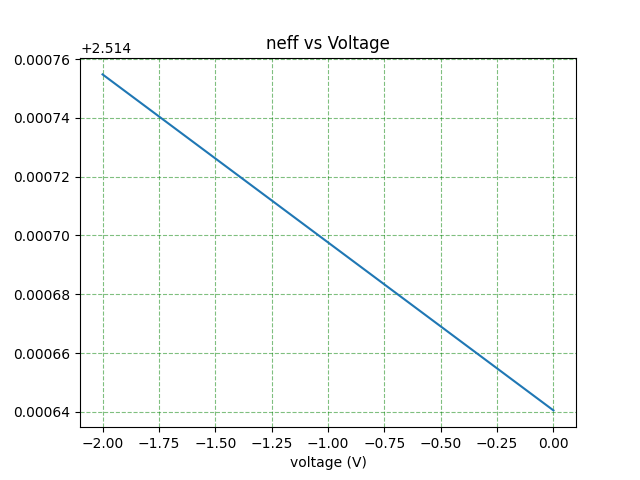
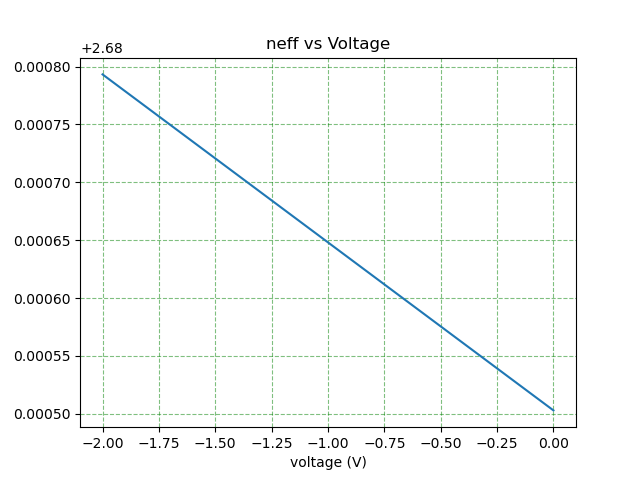
add feedback ring

diff --git a/eye_test_design.py b/eye_test_design.py
@@ -11,6 +11,8 @@ from Heater import Heater
 
 
 # Refer：Ring modulator in IMEC PDK，以PDK 3.6.1為例
+# 此模擬檔案為自行設計ring modulator，以PDK 3.6.1的ring modulator為參考
+# ring內的round trip loss、調變效率訂為跟PDK 3.6.1的ring modulator相同，然後調整ring radius和couple coefficient，為了有更高Q和更深deep
 # //////////////////////////////////////////////////////////////////////////////////////////////////////////////
 # //////////////////////////////////////////////////////////////////////////////////////////////////////////////
 mode = "scan_frequency"
@@ -19,63 +21,30 @@ delta_f = 8 # GHz
 wl_in = 1.559453431986187
 # wl_in = 1.5593-0.0008/100*delta_f
 Pin = 1.0 #mW
-FSR = 0.0195 # um
-radius = 5 #um
+ng = 3.9697242191825954
+radius = 7.5 #um
 cavity_length = 2*np.pi*radius 
-La_Lc_ratio = 1
+La_Lc_ratio = 2*np.pi*5/(2*np.pi*radius)
 mode_area = 0.22*0.5
-lambda_res =  1.559
-# Q = 3310
-Q = 2660
+lambda_res =  1.559453431986187
 me = 38 # pm/V
 
-# //////////////////////////////////////////////////////////////////////////////////////////////////////////////
-# //////////////////////////////////////////////////////////////////////////////////////////////////////////////
-# Calculate group index
-ng = lambda_res**2/(FSR*cavity_length)
-
-# //////////////////////////////////////////////////////////////////////////////////////////////////////////////
-# //////////////////////////////////////////////////////////////////////////////////////////////////////////////
-# Calculate total loss (intrinsic loss + coupling loss)
-w_res = 2*np.pi*c/(lambda_res) # THz
-print("G_energy + alpha_energy = ",( w_res*ng/(c*1e-4))/Q," 1/cm") 
-
-# //////////////////////////////////////////////////////////////////////////////////////////////////////////////
-# Define the energy absorption coefficient (varing with voltage)
-G_plus_alpha = ( w_res*ng/(c*1e-4))/Q
-ratio = 1-181/(192*2)
-alpha_energy0 =  G_plus_alpha*(1-ratio) #1/cm
-G_energy = G_plus_alpha*ratio #1/cm
-
-def func(V,alpha0,b,c):
-    return b*V/(abs(V)+c)**0.5+alpha0
-V = np.array([0,-0.5,-1,-1.5,-2])
-# alpha_energy_data = func(V,alpha_energy0,2,0.1)
-# d = 1.3
-# alpha_energy_data = V*d + alpha_energy0
-# Amp_RoundTripLoss_data = np.exp(-alpha_energy_data/2*2*np.pi*radius*1e-4)
-
 Amp_RoundTripLoss_data = np.array([0.95223,0.95248,0.95273,0.95292,0.95305])
-# Amp_RoundTripLoss_data = np.array([0.95188,0.95212,0.95246,0.95245,0.95266])
-a_fit = alpha_fit(RoundTripLoss=Amp_RoundTripLoss_data,La=cavity_length,L = cavity_length,input2 = "amp")
+a_fit = alpha_fit(RoundTripLoss=Amp_RoundTripLoss_data,La=cavity_length*La_Lc_ratio,L = cavity_length,input2 = "amp")
 
 # //////////////////////////////////////////////////////////////////////////////////////////////////////////////
 # //////////////////////////////////////////////////////////////////////////////////////////////////////////////
 # Define the coupling coefficient
 gamma = 0.95105
-# gamma = np.exp(-G_energy/2*2*np.pi*radius*1e-4) 
-
 
 # //////////////////////////////////////////////////////////////////////////////////////////////////////////////
 # //////////////////////////////////////////////////////////////////////////////////////////////////////////////
 # Define the index (varing with voltage)
+w_res = 2*np.pi*c/lambda_res
 D_bar = -2*np.pi*c/lambda_res**2
-print("ng = ",ng)
 print("delta neff/delta V = ",me*1e-6*D_bar*( -ng/(w_res) )*(1/La_Lc_ratio))
 neff0 = 2.680503
 dneff_dV = me*1e-6*D_bar*( -ng/(w_res) )*(1/La_Lc_ratio)
-# neff_calculated = [2.51105,neff0, 2.51113, 2.51116, 2.51118, 2.5112]
-# neff_calculated = [2.51461,2.51464, 2.51467, 2.5147, 2.51473, 2.51475]
 neff_calculated = [neff0+dneff_dV*(-0.5),neff0, neff0+dneff_dV*0.5, neff0+dneff_dV*1, neff0+dneff_dV*1.5, neff0+dneff_dV*2]
 
 n_fit = neff_fit(neff_data=neff_calculated)
@@ -119,7 +88,7 @@ ring_mod = ring(L=cavity_length,
             cross_section=mode_area,
             lambda_incident=wl_in,
             gamma=[gamma],
-            FSR = FSR,
+            ng=ng,
             FSR_shift=0,
             FCA_fit_factor=0,
             TPA_fit_factor=0,
@@ -139,9 +108,6 @@ H = Heater(300,0,0.5*150/0.6)
 # Define the wavelength range for the scan
 # The range is set based on the resonant wavelength and the heater power
 # The values can be adjusted based on the specific device characteristics
-
-# wl_min =  1.5525
-# wl_max = 1.5527
 wl_min =  ring_mod.lambda0+ring_mod.HE*H.P*1e-6 - ring_mod.lambda0/ring_mod.Q
 wl_max =  ring_mod.lambda0+ring_mod.HE*H.P*1e-6 + ring_mod.lambda0/ring_mod.Q
 
@@ -175,7 +141,7 @@ plt.show()
 ploting(V,1e6*c*1e-12/sim.f_pround_bar/ring_mod.ng*( ring_mod.neff(V) - ring_mod.neff(0))*(ring_mod.L_active[0]/ring_mod.L),\
             x_label="voltage (V)",title="resonant wavelength vs Voltage (pm/V)",filename="lambda_V")
 
-os.chdir("./eye_diagram_test/")
+os.chdir("./eye_test_design/")
 t = time(mode = sim.mode)
 
 if sim.mode == "scan_frequency":

diff --git a/bend_FDTD.py b/bend_FDTD.py
@@ -1,0 +1,131 @@
+import numpy as np
+import importlib
+import argparse
+
+lumapi = importlib.machinery.SourceFileLoader('Lumapi','/opt/lumerical/v212/api/python/lumapi.py').load_module()
+
+fdtd = lumapi.FDTD(hide=True)
+
+def main(radius):
+    scale = 1e-6
+    WG_height = 0.2114
+    wg_width = 0.5
+    pad = 2
+    Si = 'Si (Silicon) - Palik'
+    SiO2 = 'SiO2 (Glass) - Palik'
+    SKT_height  = 0.0622
+    L = 5
+    res = 4
+
+    fdtd.setglobalsource("wavelength start",1.5e-6)
+    fdtd.setglobalsource("wavelength start",1.6e-6)
+
+    fdtd_x_span = (radius+wg_width+6)*scale
+    fdtd_y_span = (radius+wg_width+L+2)*scale
+    fdtd_z_span = (3)*scale
+    fdtd_x = radius/2/2**0.5*scale+3*scale
+    fdtd_y = radius/2/2**0.5*scale+2*scale
+    simulation_time = 1000e-15
+
+    fdtd.addrect(name="slab")
+    fdtd.set("x",fdtd_x)
+    fdtd.set("y",fdtd_y)
+    fdtd.set("z",0)
+    fdtd.set("x span",fdtd_x_span+2*pad*scale)
+    fdtd.set("y span",(fdtd_y_span)+2*pad*scale)
+    fdtd.set("z",(-WG_height/2+SKT_height/2)*scale)
+    fdtd.set("z span",SKT_height*scale)
+    fdtd.set('material',Si)
+
+    fdtd.addrect(name="input wg")
+    fdtd.set("x",-L/2*scale)
+    fdtd.set("y",radius*scale)
+    fdtd.set("z",0)
+    fdtd.set("x span",L*scale)
+    fdtd.set("y span",wg_width*scale)
+    fdtd.set("z span",WG_height*scale)
+    fdtd.set('material',Si)
+
+    fdtd.addrect(name="output wg")
+    fdtd.set("x",radius*scale)
+    fdtd.set("y",-L/2*scale)
+    fdtd.set("z",0)
+    fdtd.set("x span",wg_width*scale)
+    fdtd.set("y span",L*scale)
+    fdtd.set("z",0)
+    fdtd.set("z span",WG_height*scale)
+    fdtd.set('material',Si)
+
+    fdtd.addring(name="new_ring")
+    fdtd.set("x",0)
+    fdtd.set("y",0)
+    fdtd.set("inner radius",(radius - wg_width/2)*scale)
+    fdtd.set("outer radius",(radius + wg_width/2)*scale)
+    fdtd.set("z",0)
+    fdtd.set("z span",WG_height*scale)
+    fdtd.set("theta start",0)
+    fdtd.set("theta stop",90)
+    fdtd.set('material',Si)
+
+    fdtd.addmode()
+    fdtd.set("name","mode source")
+    fdtd.set("injection axis","x")
+    fdtd.set("x",0)
+    fdtd.set("y",radius*scale)
+    fdtd.set("z",0)
+    fdtd.set("y span",3*scale)
+    fdtd.set("z span",2*scale)
+    fdtd.set("mode selection","user select")
+    fdtd.set("bend radius",radius*scale)
+    fdtd.set("bend waveguide",True)
+    fdtd.set("center wavelength",1.55*scale)
+    fdtd.set("wavelength span",0.1*scale)
+    
+    fdtd.addpower()
+    fdtd.set("name","field xy")
+    fdtd.set("monitor type","2D Z-normal")
+    fdtd.set("x",fdtd_x)
+    fdtd.set("y",fdtd_y)
+    fdtd.set("z",0)
+    fdtd.set("x span",fdtd_x_span)
+    fdtd.set("y span",fdtd_y_span)
+
+    fdtd.addpower()
+    fdtd.set("name","dft_output")
+    fdtd.set("monitor type","2D Y-normal")
+    fdtd.set("x",radius*scale)
+    fdtd.set("y",0)
+    fdtd.set("z",0)
+    fdtd.set("x span",3*scale)
+    fdtd.set("z span",2*scale)
+    
+
+    fdtd.addmodeexpansion()
+    fdtd.set("mode selection","user select")
+    fdtd.set("name","mode_output")
+    fdtd.set("monitor type","2D Y-normal")
+    fdtd.set("x",radius*scale)
+    fdtd.set("y",0)
+    fdtd.set("z",0)
+    fdtd.set("x span",3*scale)
+    fdtd.set("z span",2*scale)
+    fdtd.set("bend radius",radius*scale)
+    fdtd.set("bend waveguide",True)
+
+    fdtd.addfdtd(simulation_time=simulation_time)
+    fdtd.set('dimension','3D')
+    fdtd.set("x",fdtd_x)
+    fdtd.set("y",fdtd_y)
+    fdtd.set('z',0)
+    fdtd.set('x span',fdtd_x_span)
+    fdtd.set('y span',fdtd_y_span)
+    fdtd.set('z span',fdtd_z_span)
+    fdtd.set('mesh accuracy',res)
+    fdtd.set("background material",SiO2)
+
+    fdtd.save("bend_loss")
+if __name__=='__main__':
+    parser = argparse.ArgumentParser()
+    parser.add_argument("radius",help="specify radius of ring",type=np.float64)
+    arg = parser.parse_args()
+    main(arg.radius)

diff --git a/ring.py b/ring.py
@@ -254,24 +254,6 @@ class ring(simulation):
         \
         1j*self.D_bar*( (self.HE*1e-6)*Heater.P)*b_bar
         return da_dt
-    
-    # def CMT_single_segment(self,f_pround_bar,b_bar,N_bar,delta_T,f_res_bar,alpha_0,alpha_bias,TPA,SPM,T_args,dlambda,Heater):
-    #     da_dt = 1j*2*np.pi*(f_res_bar-f_pround_bar + SPM*abs(b_bar)**2 + \
-    #     \
-    #     (-self.f_res_bar/self.ng)*T_args[0]*delta_T )*b_bar \
-    #     \
-    #     - (self.tu_e_bar_total_inv + \
-    #     \
-    #     self.vg_in_cm*alpha_0/2 +\
-    #     self.vg_in_cm*TPA/2*abs(b_bar)**2 \
-    #     + self.vg_in_cm*N_bar*1e-5/2  ) *b_bar + \
-    #     \
-    #     self.input_kappa + \
-    #     \
-    #     1j*self.D_bar*dlambda*b_bar + \
-    #     \
-    #     1j*self.D_bar*( (self.HE*1e-6)*Heater.P)*b_bar
-    #     return da_dt
 
     def FC_rate_equation(self,b_bar,N_bar,FCA,tau_eff):
 
@@ -312,12 +294,12 @@ class alpha_fit():
         V = np.array([0,-0.5,-1,-1.5,-2])
         # if La not = L, then self.alpha_data =  (alpha_1 - alpha(V=0) )*La/L + alpha(V=0) 
         self.alpha_V0 = self.alpha_data[0]
+        print("self.alpha_V0 = ",self.alpha_data)
         self.alpha_1 = (self.alpha_data - self.alpha_V0 ) * self.L/self.La + self.alpha_V0
         if self.fit_mode=="linear":
             self.m, self.b = np.polyfit(V, self.alpha_1, 1)
         if self.fit_mode == "func":
             self.popt, pcov = curve_fit(self.func, V, self.alpha_1)
-            print("alpha_fit.popt = ",self.popt)
     def __init__(self,RoundTripLoss:np.ndarray,La,L,input2,fit_mode = "linear"):
         """input: specify which physic parameter of RoundTripLoss is using, energy or amplitude."""
         """Now, alpha_pdk is Loss of Energy"""

diff --git a/ring_with_mzm.py b/ring_with_mzm.py
@@ -1,3 +1,47 @@
 import numpy as np
 from utility import *
 
+def output(t1,k1,t2,k2,q1,q2,q3,phi1,phi2,phi3):
+    t = (-q3*t1*t2*np.exp(-1j*phi3) + k1*k2*q1*np.exp(-1j*phi1) + q1*q2*q3*(t1**2+k1**2)*(t2**2+k2**2)*np.exp(-1j*(phi1+phi2+phi3))) / \
+        (-1 + q1*q2*t1*t2*np.exp(-1j*(phi1+phi2)) - q2*q3*k1*k2*np.exp(-1j*(phi2+phi3)))
+    
+    return t
+
+
+# //////////////////////////////////////////////////////////////////////////////////////////////////////////////////////////////////////////
+# //////////////////////////////////////////////////////////////////////////////////////////////////////////////////////////////////////////
+
+radius = 5
+ng = 3.98
+
+t1 = 0.95012
+t2 = t1
+k1 = (1-t1**2)**0.5
+k2 = (1-t2**2)**0.5
+L1 = 2*np.pi*radius/2
+L2 = 2*np.pi*radius/2
+L3 = 2*np.pi*radius/2 + 30
+q1 = 0.99**0.5
+q2 = 0.99**0.5
+q3 = 0.9**0.5
+heater_phase = 0
+
+wl = np.linspace(1.5,1.6,10000)
+w = 2*np.pi*c/wl
+w0 =  2*np.pi*c/1.55
+n0 = 2.5
+n = n0 + (ng-n0)*(w-w0)/w0
+
+phi1 = 2*np.pi/wl*n*L1
+phi2 = 2*np.pi/wl*n*L2
+phi3 = 2*np.pi/wl*n*L3 + heater_phase
+
+t = np.zeros(len(wl)) + 1j*np.zeros(len(wl))
+t = output(t1,k1,t2,k2,q1,q2,q3,phi1,phi2,phi3)
+
+print("L3 - L1 = ",L3-L1," um")
+print("FSR of MZM = ",1550**2/(ng*1000*abs(L3-L1))," nm")
+print("FSR of Ring = ",1550**2/(ng*1000*abs(L2+L1))," nm")
+ploting(wl*1000,dB(abs(t)**2),x_label="wavelength (nm)",title="transmission of feedback ring")
+ploting(wl*1000,dB(abs(np.exp(-1j*2*np.pi/wl*n*L1)+np.exp(-1j*2*np.pi/wl*n*L3))**2),x_label="wavelength (nm)",title="transmission of MZM")
+
